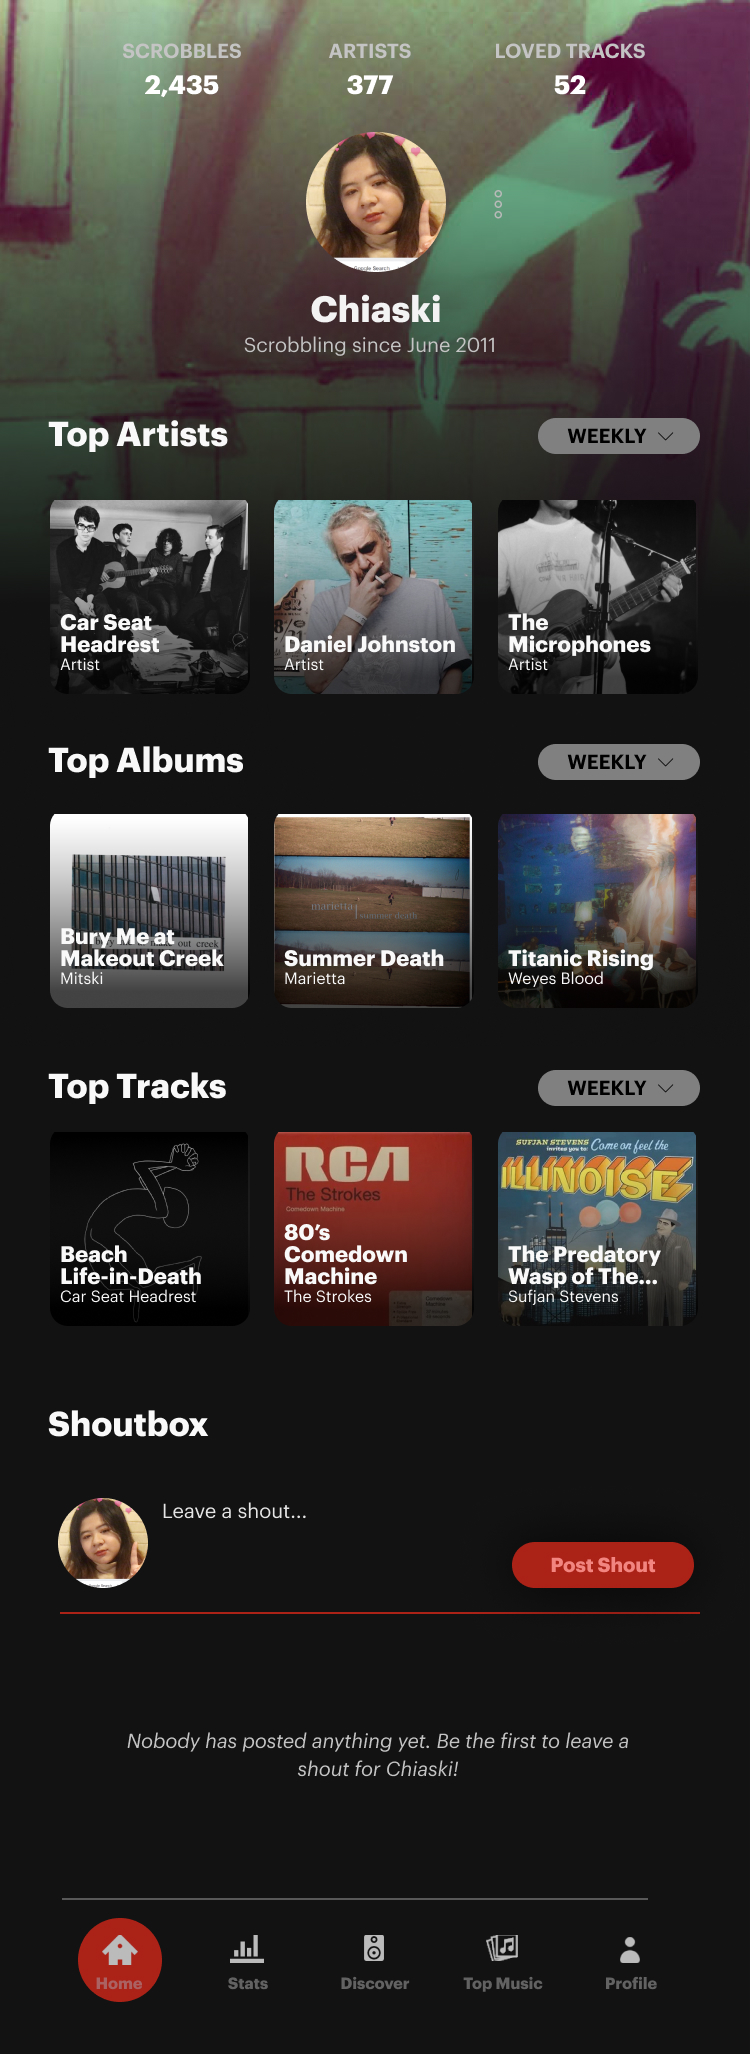
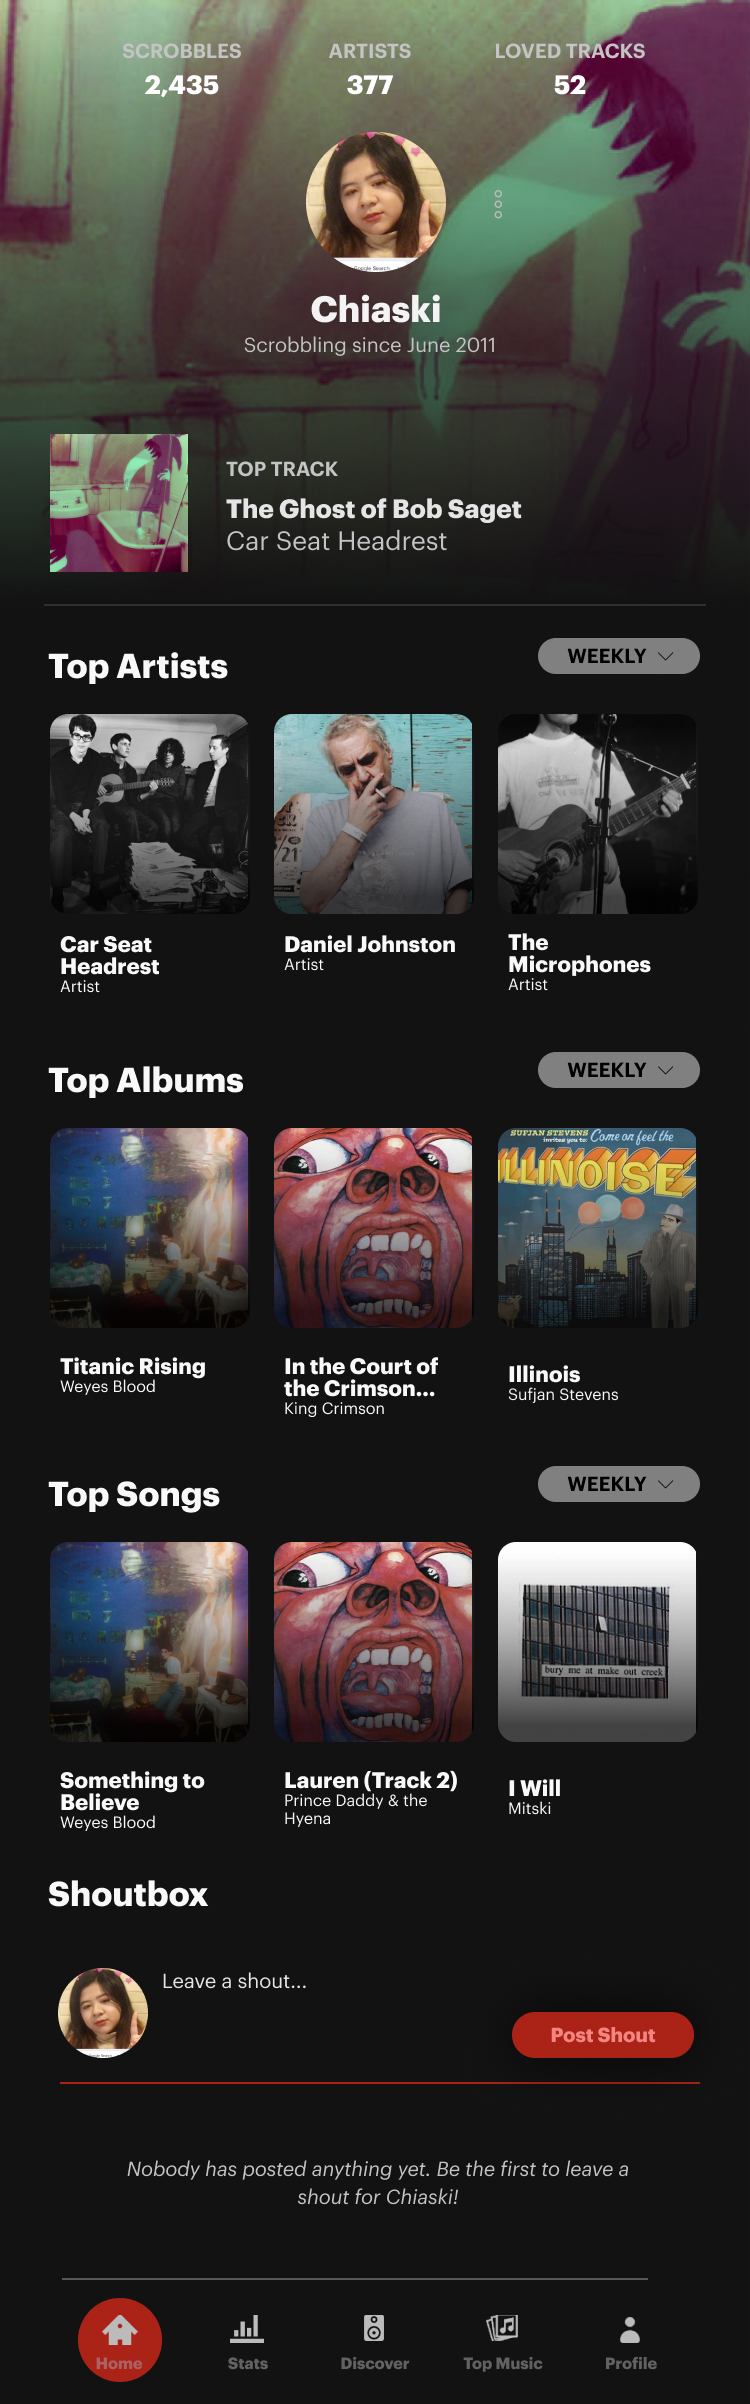
fixy profile and add header

diff --git a/public/work/lastfm.html b/public/work/lastfm.html
@@ -53,6 +53,14 @@
                         Improving how people scrobble and connect over sound.
                     </div><br><br>
                     
+                    <span class="image-container">
+
+                        <img class="image-full" src="../assets/portfolio/lastfm/main.jpg">
+                    
+                    </span>
+                    
+                    <br>
+                    
                     <blockquote>This is a work-in-progress! (My Muji sketchbook is suffering!) Have other thoughts on the beloved music platform? <a href="mailto:chiamisola@gmail.com">Message me</a>  and let's talk about Last.fm!</blockquote>
                     
                     
@@ -196,7 +204,7 @@
             </div>  
                     
                     
-                    <p>I sketched a base flow for the redesign taking into account these features. The original mobile app only had a view for the top tracks, and then recent scrobbles. Much of my flow was based on ensuring web spaces were found on the app.</p><br>
+                    <p>I sketched a base flow for the redesign taking into account these features. The original mobile app only had a view for the top tracks, and then recent scrobbles. Much of my flow was based on ensuring key web spaces were found on the app.</p><br>
                     
                     
                     <span class="image-container">
@@ -214,15 +222,13 @@
     <h3>Prioritizations</h3>
         <ul class="feature-large">
             <li><strong>Universality 🌎</strong><br>
-            While eyeing to add a breadth of web features on Last.fm, I kept in mind how <em>sizable amounts of users are non-English speaking</em>. (Many of the most popular Last.fm integrations and extensions are made by users outside of the English-speaking world!)<br>Keeping with minimalism and intuitive visual flows was key; I didn't want to detract from the way deeper navigation happens on the web.</li>
+            While eyeing to add a breadth of web features on Last.fm, I kept in mind how <em>sizable amounts of users are non-English speaking</em>. (Many of the most popular Last.fm integrations and extensions are made by users outside of the English-speaking world!)<br>Keeping with minimalism and intuitive visual flows was key; I didn't want to detract from the way deeper navigation happens on the web. <mark>Song details would be a focus, no complexity or getting lost.</mark></li>
             
-            <li><strong>Immediacy 🗂</strong><br>Last.fm has fun social features and discovery, but I wanted to keep to the statistics and history that many users were prioritizing and looking for in the app. I opted to leave out some web features like neighbors and events to focus on the peg as a <em>musical calling card.</em></li>
-            
+            <li><strong>Immediacy 🗂</strong><br>Last.fm has fun social features and discovery, but I wanted to keep to the statistics and history that many users were prioritizing and looking for in the app. I opted to leave out some web features like neighbors and events to focus on the app as a <mark>musical calling card.</mark></li>
             
         </ul>
                     
-                    
-
+           <hr>
                       
                     <span class="image-container">
 
@@ -230,6 +236,8 @@
 
                         <em>A selection of the design assets for the redesign that I began reusing while putting together mid-fi screens</em>
                     </span>
+                
+                <p>For the design, you'll notice a heavy use of images. One tiny, impactful feature on Last.fm is <mark>community-voted images</mark> that overlay artist and album pages. I wanted to keep this level of customization and intimacy in while developing the Last.fm mobile world.</p>    
                 
             <hr>                    
                     <h2 id="part-inquiry">Process</h2>
